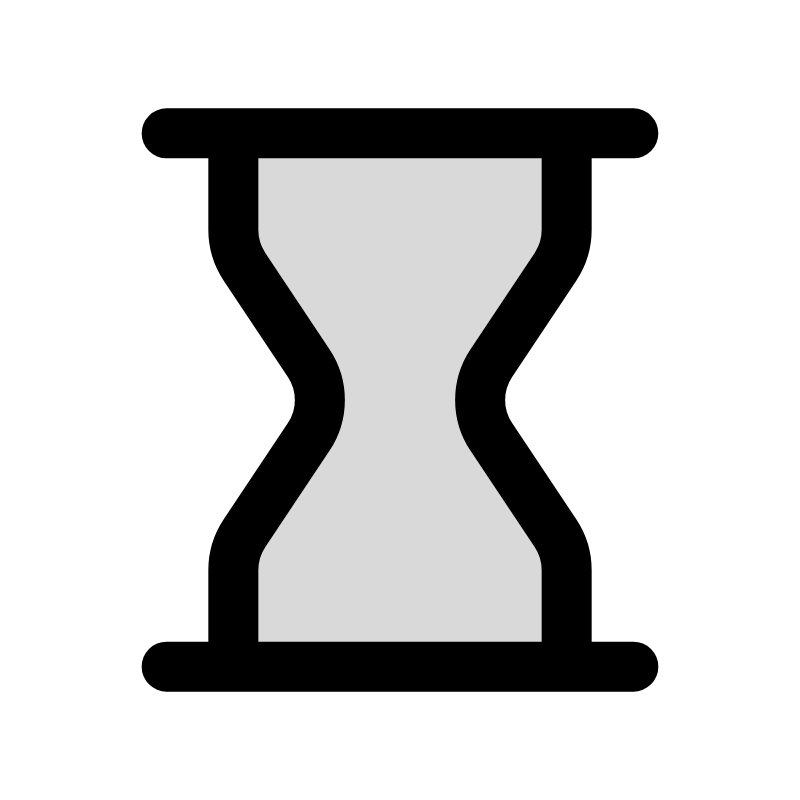
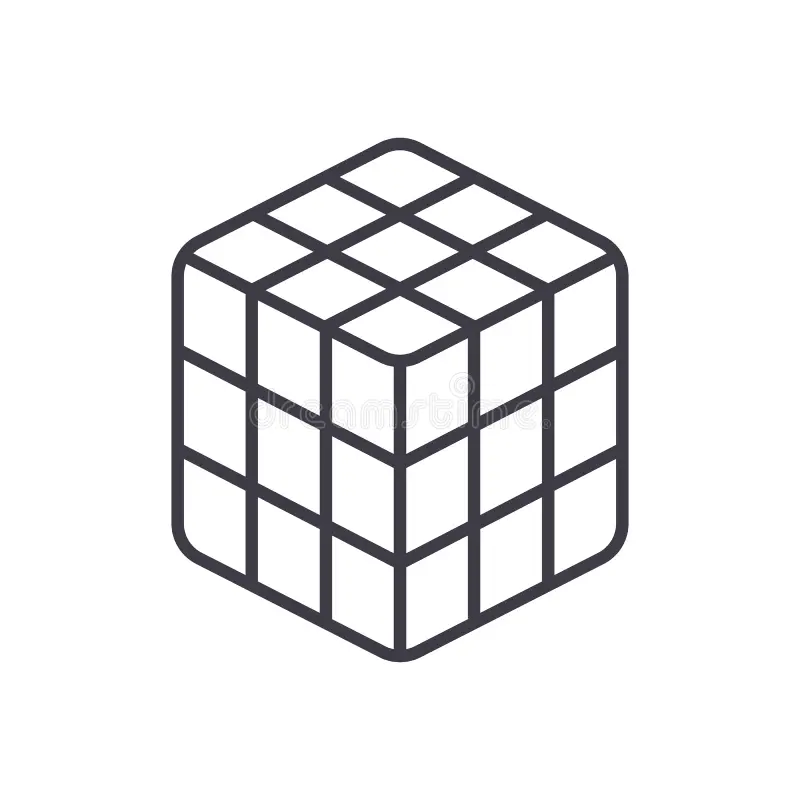
Updating homepage

diff --git a/src/components/Home.tsx b/src/components/Home.tsx
@@ -1,5 +1,4 @@
 import { motion } from "framer-motion";
-import { RiGithubFill, RiLinkedinFill, RiMailFill } from "react-icons/ri";
 
 const container = {
     hidden: { opacity: 0 },
@@ -16,13 +15,19 @@ const letter = {
     show: {
         opacity: 1,
         y: 0,
-        transition: { ease: "easeOut" },
+        transition: { ease: "linear" },
     },
 };
 
 const Home: React.FC = () => {
     return (
         <section className="max-w-4xl mx-auto text-center">
+            <p className="text-primary-600 font-mono text-sm mb-4"> Hi, I'm</p>
+
+
+            <h1 className="text-5xl sm:text-6xl lg:text-7xl font-bold text-neutral-900 mb-6"
+            ></h1>
+
 
             <h1 className="text-4xl md:text-5xl font-bold text-white mb-6">
                 <motion.h1
@@ -31,7 +36,7 @@ const Home: React.FC = () => {
                     initial="hidden"
                     animate="show"
                 >
-                    {"Welcome to My Portfolio Website!".split("").map((char, index) => (
+                    {"Jeffrey Li".split("").map((char, index) => (
                         <motion.span
                             key={index}
                             variants={letter}
@@ -44,36 +49,61 @@ const Home: React.FC = () => {
             </h1>
 
             <p className="80 text-lg">
-                Hello! I'm Jeffrey, a senior studying Computer Science at Worcester Polytechnic Institute (WPI).
+                Building intelligent systems at the intersection of Software Engineering and Machine Learning.
             </p>
 
 
-            <div className="flex justify-center gap-6 mt-8">
-                <a
-                    href="https://github.com/jeffcli"
-                    target="_blank"
-                    rel="noopener noreferrer"
-                    className="text-white hover:text-blue-300 transition"
-                >
-                    <RiGithubFill size={32}/>
-                </a>
+            <div className="flex flex-col sm:flex-row gap-4 justify-center items-center mt-5">
+                <a className="group px-8 py-3 bg-primary-500 text-white rounded-lg font-medium hover:bg-primary-600 transition-all duration-200 flex items-center gap-2 shadow-lg hover:shadow-xl"
+                href="/projects">View My Work
+                <svg xmlns="http://www.w3.org/2000/svg" width="18" height="18" viewBox="0 0 24 24" fill="none"
+                     stroke="currentColor" stroke-width="2" stroke-linecap="round" stroke-linejoin="round"
+                     className="lucide lucide-arrow-right group-hover:translate-x-1 transition-transform">
+                    <path d="M5 12h14"></path>
+                    <path d="m12 5 7 7-7 7"></path>
+                </svg>
+            </a><a href="mailto:[email redacted]"
+                   className="px-8 py-3 bg-white text-neutral-900 border-2 border-neutral-200 rounded-lg font-medium hover:border-primary-600 hover:text-primary-600 transition-all duration-200 flex items-center gap-2">
+                <svg xmlns="http://www.w3.org/2000/svg" width="18" height="18" viewBox="0 0 24 24" fill="none"
+                     stroke="currentColor" stroke-width="2" stroke-linecap="round" stroke-linejoin="round"
+                     className="lucide lucide-mail">
+                    <rect width="20" height="16" x="2" y="4" rx="2"></rect>
+                    <path d="m22 7-8.97 5.7a1.94 1.94 0 0 1-2.06 0L2 7"></path>
+                </svg>
+               Contact Me</a></div>
 
-                <a
-                    href="https://www.linkedin.com/in/jeffrey-li-156013203/"
-                    target="_blank"
-                    rel="noopener noreferrer"
-                    className="text-white hover:text-blue-300 transition"
-                >
-                    <RiLinkedinFill size={32}/>
-                </a>
 
-                <a
-                    href="[email redacted]"
-                    className="text-white hover:text-blue-300 transition"
-                >
-                    <RiMailFill size={32}/>
-                </a>
-            </div>
+
+
+            {/*<div className="flex justify-center gap-6 mt-8">*/}
+            {/*    <a*/}
+            {/*        href="https://github.com/jeffcli"*/}
+            {/*        target="_blank"*/}
+            {/*        rel="noopener noreferrer"*/}
+            {/*        className="text-white hover:text-blue-300 transition"*/}
+            {/*    >*/}
+            {/*        <RiGithubFill size={32}/>*/}
+            {/*    </a>*/}
+
+            {/*    <a*/}
+            {/*        href="https://www.linkedin.com/in/jeffrey-li-156013203/"*/}
+            {/*        target="_blank"*/}
+            {/*        rel="noopener noreferrer"*/}
+            {/*        className="text-white hover:text-blue-300 transition"*/}
+            {/*    >*/}
+            {/*        <RiLinkedinFill size={32}/>*/}
+            {/*    </a>*/}
+
+            {/*    <a*/}
+            {/*        href="[email redacted]"*/}
+            {/*        className="text-white hover:text-blue-300 transition"*/}
+            {/*    >*/}
+            {/*        <RiMailFill size={32}/>*/}
+            {/*    </a>*/}
+
+
+            {/*</div>*/}
+
         </section>
     );
 };

diff --git a/src/components/NavBar.tsx b/src/components/NavBar.tsx
@@ -2,21 +2,20 @@ import {Link} from "react-router-dom";
 
 const Navbar = () => {
     return (
-        <nav className="fixed top-0 left-0 w-full z-50">
+        <nav className="top-0 left-0 w-full z-10">
             <div className="max-w-6xl mx-auto px-6 py-6 flex items-center justify-between">
                 <span className="text-slate-700 hover:text-indigo-600 transition"> <Link to="/">JL</Link></span>
-
                 <ul className="flex items-center gap-6">
                     <li className="text-slate-700 hover:text-indigo-600 transition">
                         <Link to="/">Home</Link>
                     </li>
-                    <li className="text-slate-700 hover:text-indigo-600 transition">
-                        <Link to="/about">About</Link>
-                    </li>
-                    <li className="text-slate-700 hover:text-indigo-600 transition">
-                        <Link to="/projects">Projects</Link>
-                    </li>
 
+                    <li className="text-slate-700 hover:text-indigo-600 transition">
+                        <Link to="/projects">Portfolio</Link>
+                    </li>
+                    <li className="text-slate-700 hover:text-indigo-600 transition">
+                        <Link to="/about">About Me</Link>
+                    </li>
                 </ul>
 
             </div>

diff --git a/src/components/About.tsx b/src/components/About.tsx
@@ -17,8 +17,10 @@ const About: React.FC = () => {
             <div className="flex flex-col md:flex-row items-center gap-8">
                 <div className="flex-1">
                     <p className="text-lg mb-4">
-                        I am a senior at Worcester Polytechnic Institute (WPI) pursuing a bachelors and masters degree in
-                        Computer Science. My interests lie at the intersection of Software Engineering, System Design and Machine Learning.
+                        I am a senior at Worcester Polytechnic Institute (WPI) pursuing a Bachelors and Masters degree
+                        in
+                        Computer Science. My interests lie at the intersection of Software Engineering, System Design
+                        and Machine Learning.
                     </p>
                     <p className="text-lg mb-4">
                         In my free time, I enjoy running (just ran my first marathon!), skiing in the winters,

diff --git a/src/components/Projects.tsx b/src/components/Projects.tsx
@@ -42,8 +42,9 @@ const Portfolio: React.FC = () => {
     }
 
     return (
-        <div className="container mx-auto">
+        <div className="container mx-auto pb-10">
             <h1 className="text-4xl font-bold text-center mb-8">Projects</h1>
+            <p className="text-xl text-center mb-8">A collection of projects spanning full-stack development, AI/ML, and other exploratory work</p>
             <div className="grid grid-cols-1 md:grid-cols-2 gap-8 hover:cursor-pointer">
                 {projects.map((project) => (
                     <div

diff --git a/index.html b/index.html
@@ -4,7 +4,7 @@
     <meta charset="UTF-8" />
     <link rel="icon" type="image/svg+xml" href="/img.png" />
     <meta name="viewport" content="width=device-width, initial-scale=1.0" />
-    <title>JL</title>
+    <title>Jeffrey Li</title>
   </head>
   <body>
     <div id="root"></div>

diff --git a/src/App.tsx b/src/App.tsx
@@ -15,7 +15,7 @@ function App() {
                 className="min-h-screen bg-gradient-to-br from-indigo-200 via-purple-200 to-fuchsia-200 text-slate-800">
                 <Navbar/>
 
-                <main className="pt-32 px-6">
+                <main className="pt-10 px-6">
                     <Routes>
                         <Route path="/" element={<Home/>}/>
                         <Route path="/about" element={<About/>}/>